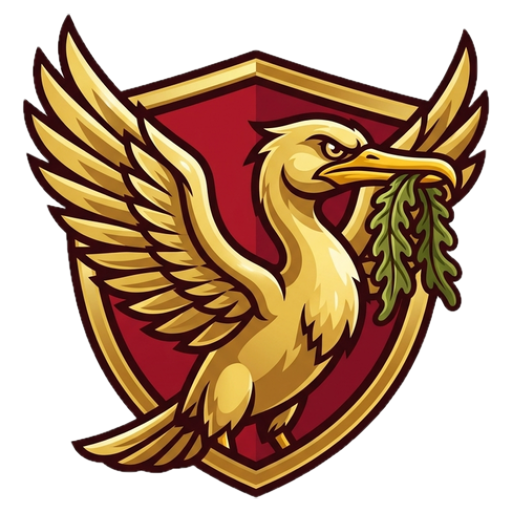
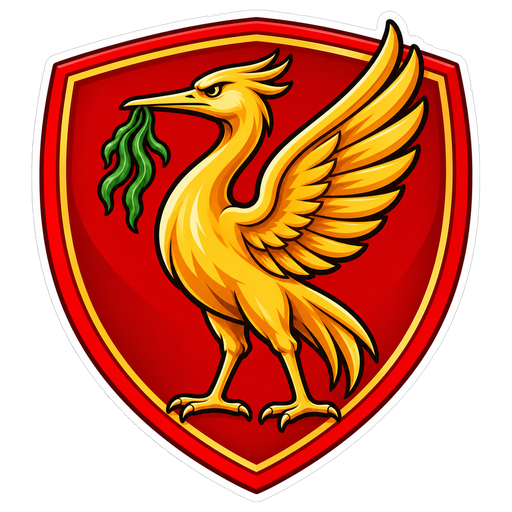
Liverpool crest: new slim Liver bird sticker; Man Utd prompt: slim impish devil

diff --git a/frontend/src/data/avatars.ts b/frontend/src/data/avatars.ts
@@ -33,7 +33,7 @@ const CLUB_BY_NAME = new Map(
 
 // "?v=" makes phones fetch a crest again after its picture is replaced
 // (Telegram's web view keeps the old file otherwise). Raise it with each new set.
-const CREST_VERSION = '2026-11-25c'
+const CREST_VERSION = '2026-11-25d'
 export const clubBadge = (name?: string | null): string | null => {
   const src = (name && (CLUB_BY_NAME.get(name) || EXTRA_SHIELDS[name])) || null
   return src ? `${src}?v=${CREST_VERSION}` : null

diff --git a/design/prompts/club-crests.md b/design/prompts/club-crests.md
@@ -6,10 +6,10 @@ Golden balance: catchy, aggressive, not scary. Every creature in motion with sha
 Done, do not regenerate: Brentford hornet (`EPL_BRE.png`, approved). Man Utd: REDO with the prompt below (owner, 23 Nov: red devil with a trident, like the club's devil).
 Save each as `betty-release-2.1/frontend/public/teams/Cards/<CODE>.png`. Order: week 48 clubs first (top 10), then the rest.
 
-#### Manchester United - `EPL_MAN.png` (REDO, 23 Nov)
+#### Manchester United - `EPL_MAN.png` (REDO, 25 Nov)
 
 ```
-A grinning red devil in full figure, striding forward in an attacking pose, holding a long black trident raised diagonally across his body like a weapon ready to strike: bright red skin, short curved black horns, sharp focused eyes under angry brows, a cheeky confident smirk, a long pointed tail curling behind him. Drawn as a modern professional sports team mascot logo, like NBA or NHL team logos: simplified bold shapes, clean thick outlines, two-tone shading with a little shine. Bold, mischievous and aggressive, full of energy, catchy rather than scary: no armour, no gore, no dark horror look. The devil and trident are large and fill most of the shield. Placed on a golden-yellow shield with a thick black and red trim, shown as a die-cut sticker with a thick white border, flat with no drop shadow, centred on a plain light grey background, square image. No text, no letters, no numbers.
+A bold cartoon sticker of a small, slim, impish red devil like the devil on the Manchester United crest: a lean wiry little figure in side view facing left, standing on one leg with the other knee raised, holding a long trident upright in front of him with both hands, small pointed horns, pointed ears, a sly cheeky grin, a long thin tail ending in an arrow tip curling up behind him. Thin arms and legs, no big muscles, not a bodybuilder: playful and mischievous like a classic heraldic devil. Bright red with simple bold shading and one shiny highlight, the trident black. Drawn as a modern sports team logo, like NBA or NHL team logos: simplified bold shapes, clean thick outlines, bright punchy colours. On a shield seen straight from the front, upright and symmetrical, not tilted: a bright golden-yellow shield with a thick red border and a thin black line inside it. Shown as a die-cut sticker with an even white edge that follows the shield, centred on a plain light grey background, square image. No text, no letters, no numbers.
 ```
 
 #### Galatasaray - `UCL_GAL.png`

diff --git a/changelogs/CHANGELOG-2026-11-22-release-2.2-prep.md b/changelogs/CHANGELOG-2026-11-22-release-2.2-prep.md
@@ -102,3 +102,4 @@ Files: `frontend/public/avatars/clubs/*.png` (512 px), `frontend/src/styles/Chal
 - 25 Nov: Man City white edge DEPLOYED LIVE (release-2.1 ab6f4c1), checked live at 3x. Arsenal: owner wants the wooden block under the cannon gone -> prompt updated, waiting for new picture.
 - 25 Nov: Arsenal v2 (no wooden block) on DEV, checked at 3x; live waits for "deploy".
 - 25 Nov: Arsenal v2 DEPLOYED LIVE (release-2.1 618f116), checked live at 3x. New crest style (straight sticker, even white edge) agreed; other clubs to follow one by one.
+- 25 Nov: Liverpool new Liver bird on DEV, checked at 3x; Man Utd prompt redone (slim impish devil, not bodybuilder), waiting picture.
